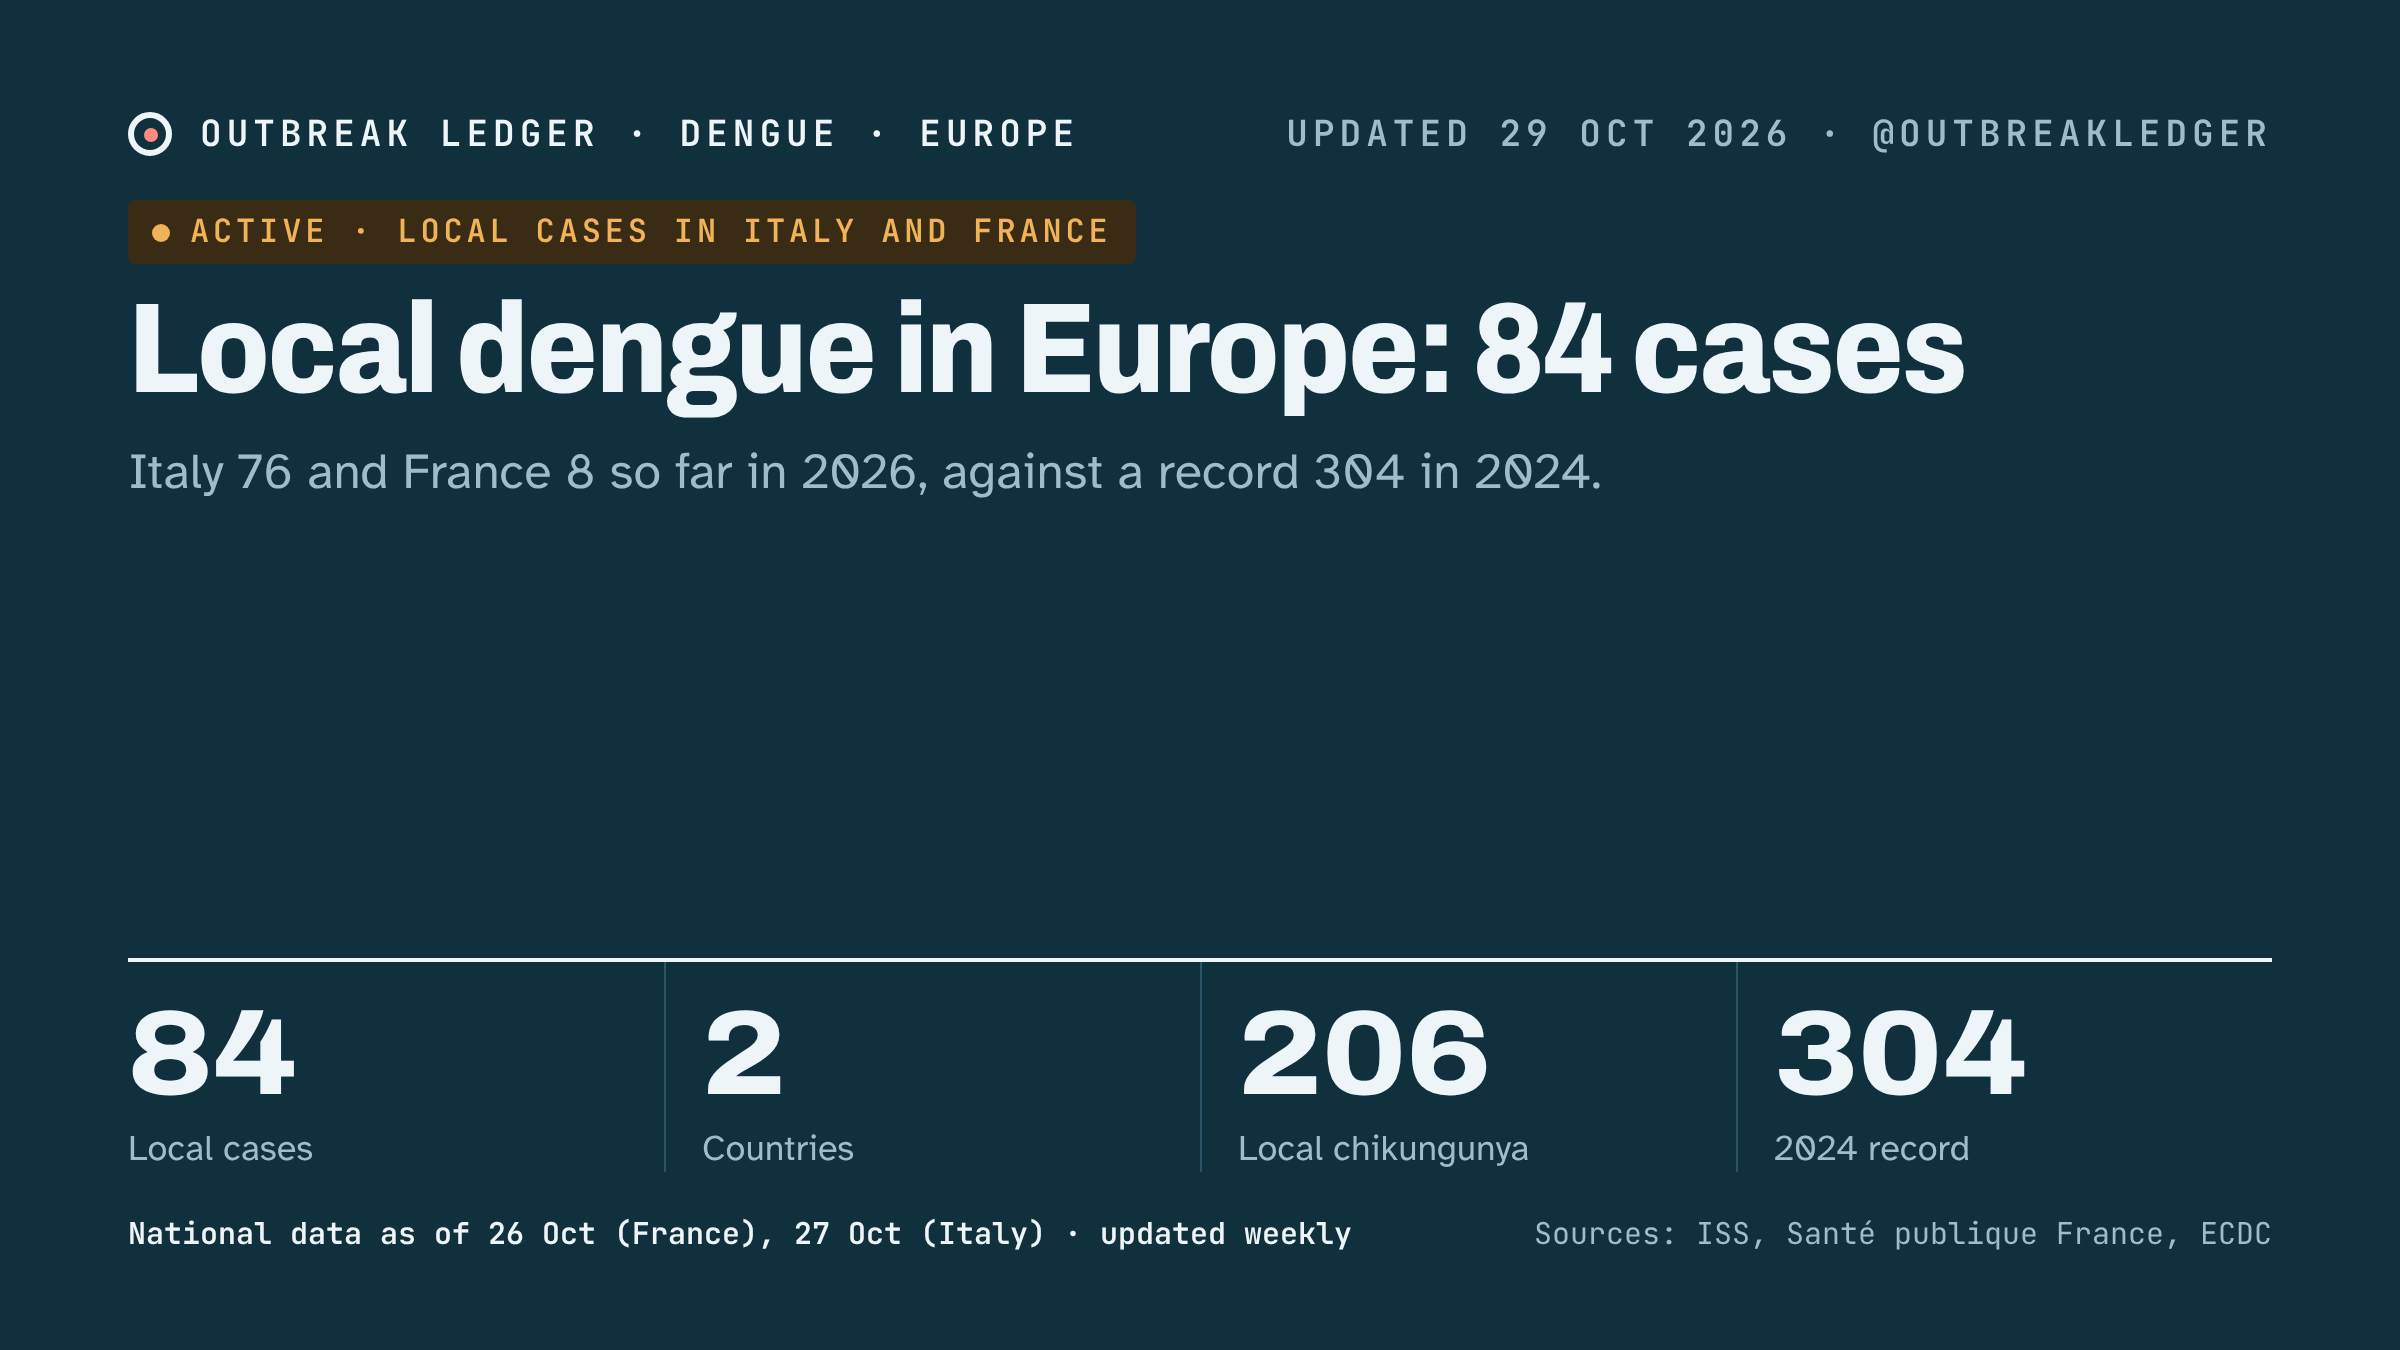
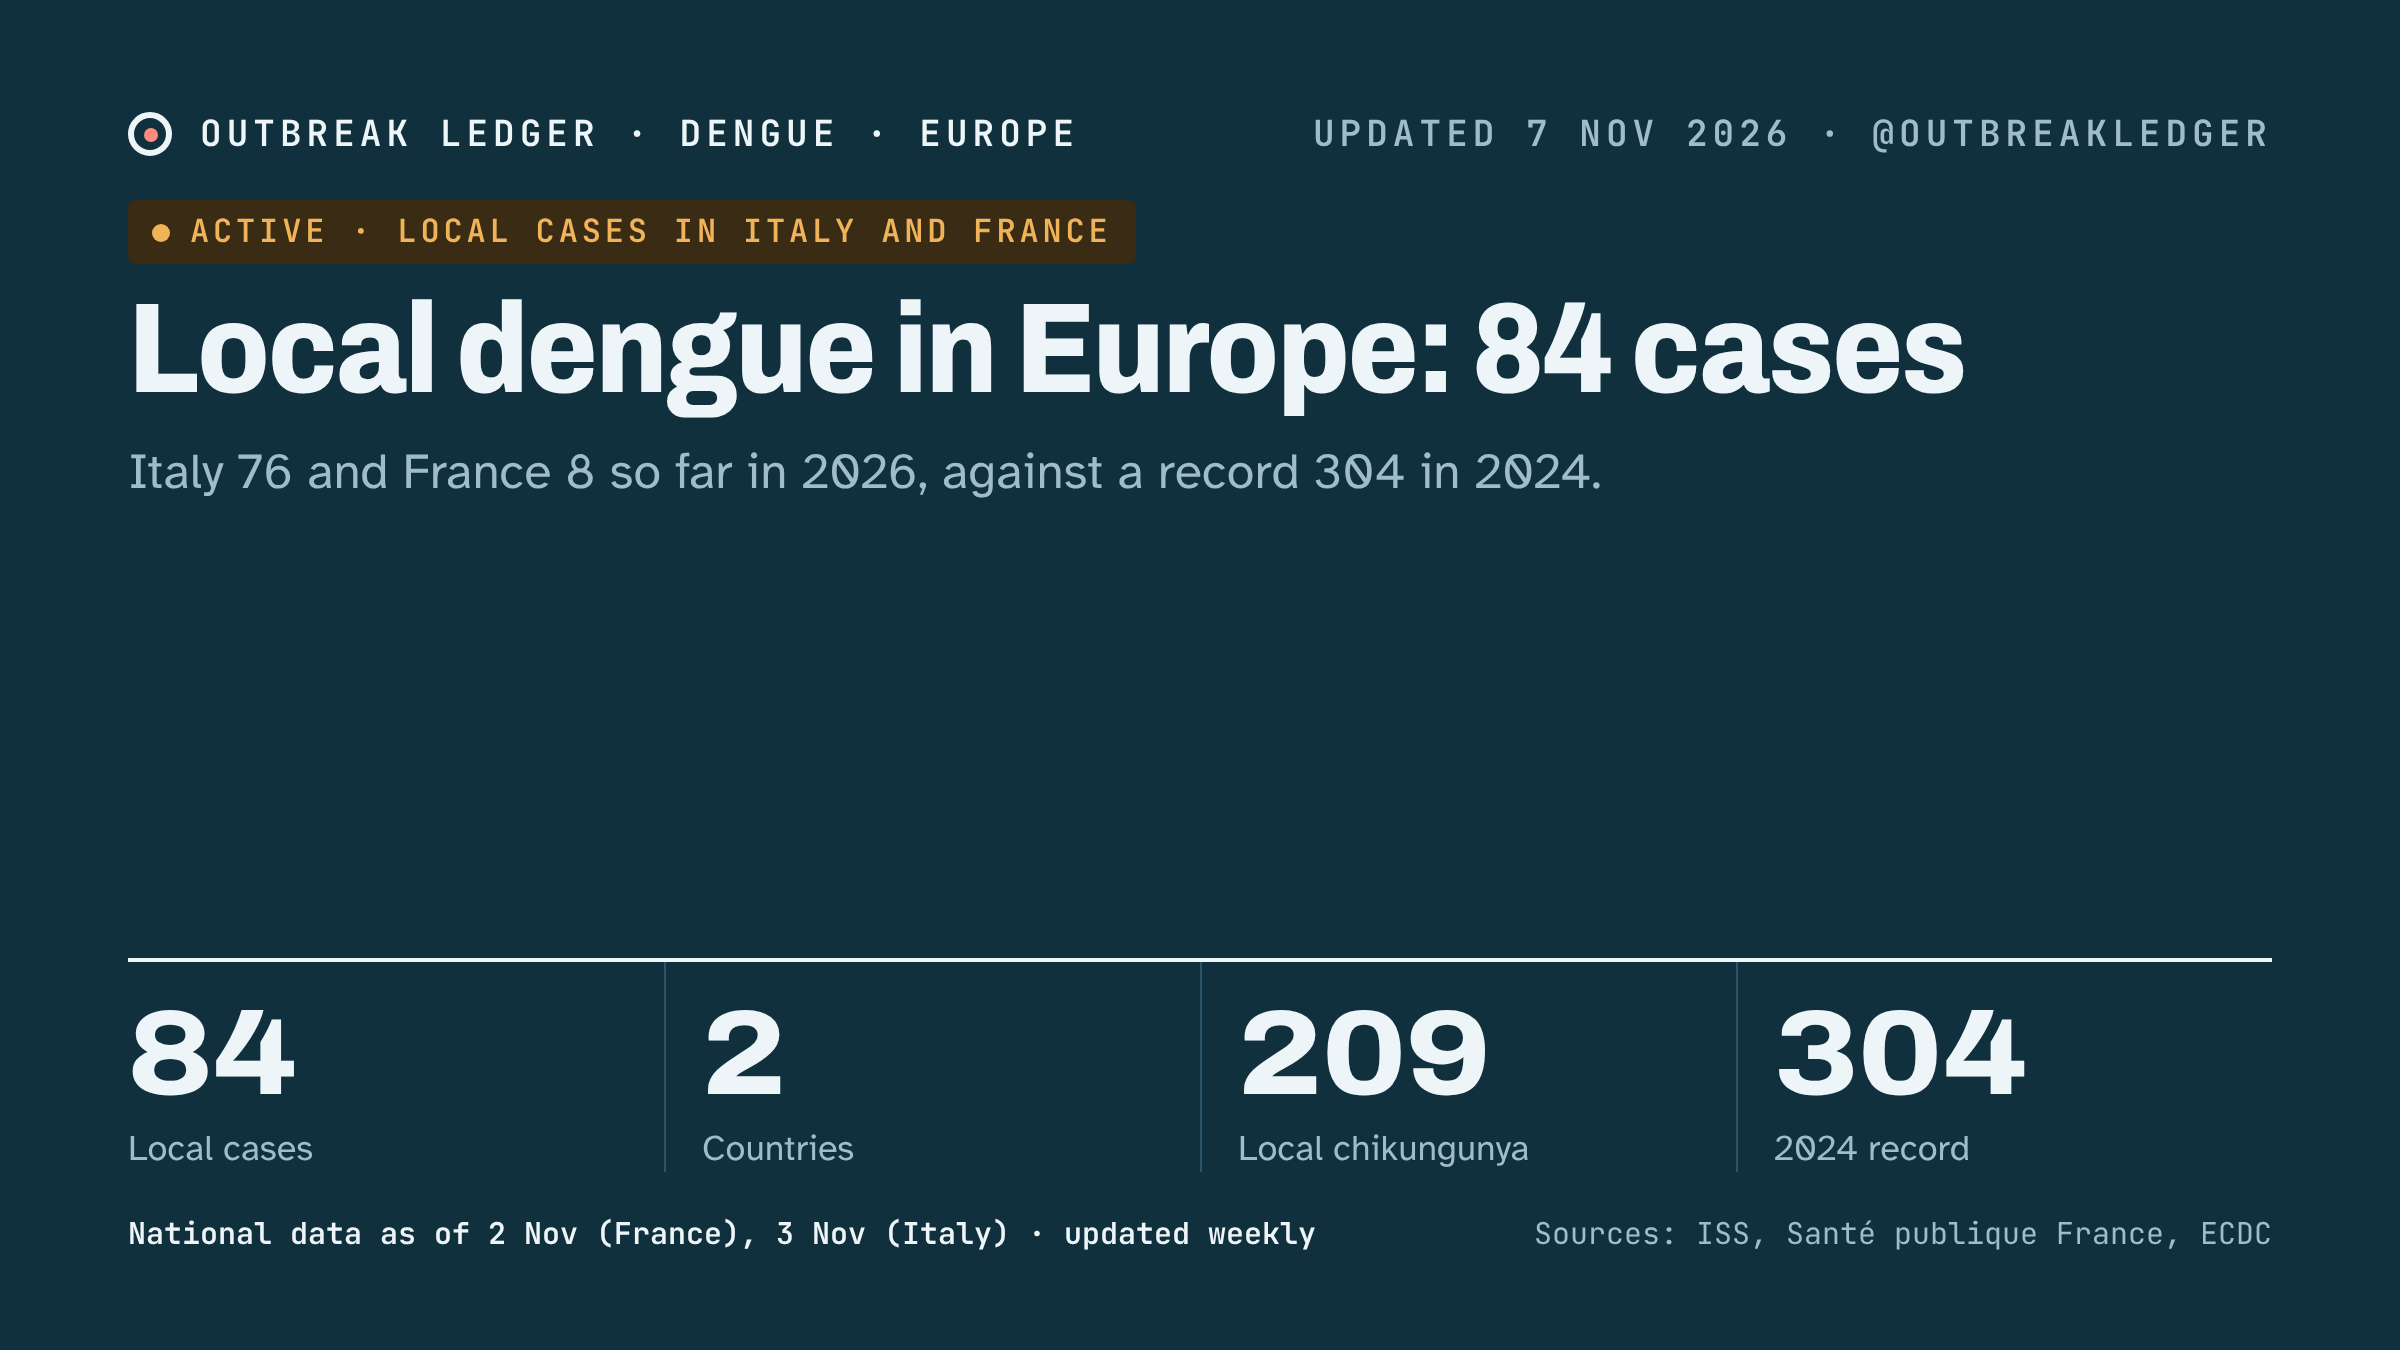
Trackers: dengue data dates to 3 Nov (Italy 76) and 2 Nov (France 8, chik 208); others checked, no change
Claude-Session: https://claude.ai/code/session_01DjK934MGj4uKY77RiACNyU

diff --git a/site/dengue/share/latest-post.md b/site/dengue/share/latest-post.md
@@ -1,5 +1,3 @@
-Local dengue in Europe: Italy counts 76 locally acquired cases in 2026 (ISS, data to 27 Oct) and France 8 (Santé publique France, to 26 Oct), 84 in all. The 2024 record was 304.
+Dengue in Europe: Italy's ISS counts 76 locally acquired cases (data to 3 Nov) and France 8 (to 2 Nov), 84 in all, against a record 304 in 2024. France's local chikungunya count is 208. https://nhlebe1.github.io/ai-scheduler-platform/dengue/
 
-https://nhlebe1.github.io/ai-scheduler-platform/dengue/
-
-Sources: Istituto Superiore di Sanità (EpiCentro, data to 27 Oct; Quotidiano Sanità); Santé publique France bulletin of 28 Oct (via La Veille Acteurs de Santé).
+Sources: ISS update via Quotidiano Sanità (6 Nov); Santé publique France bulletin (4 Nov).
